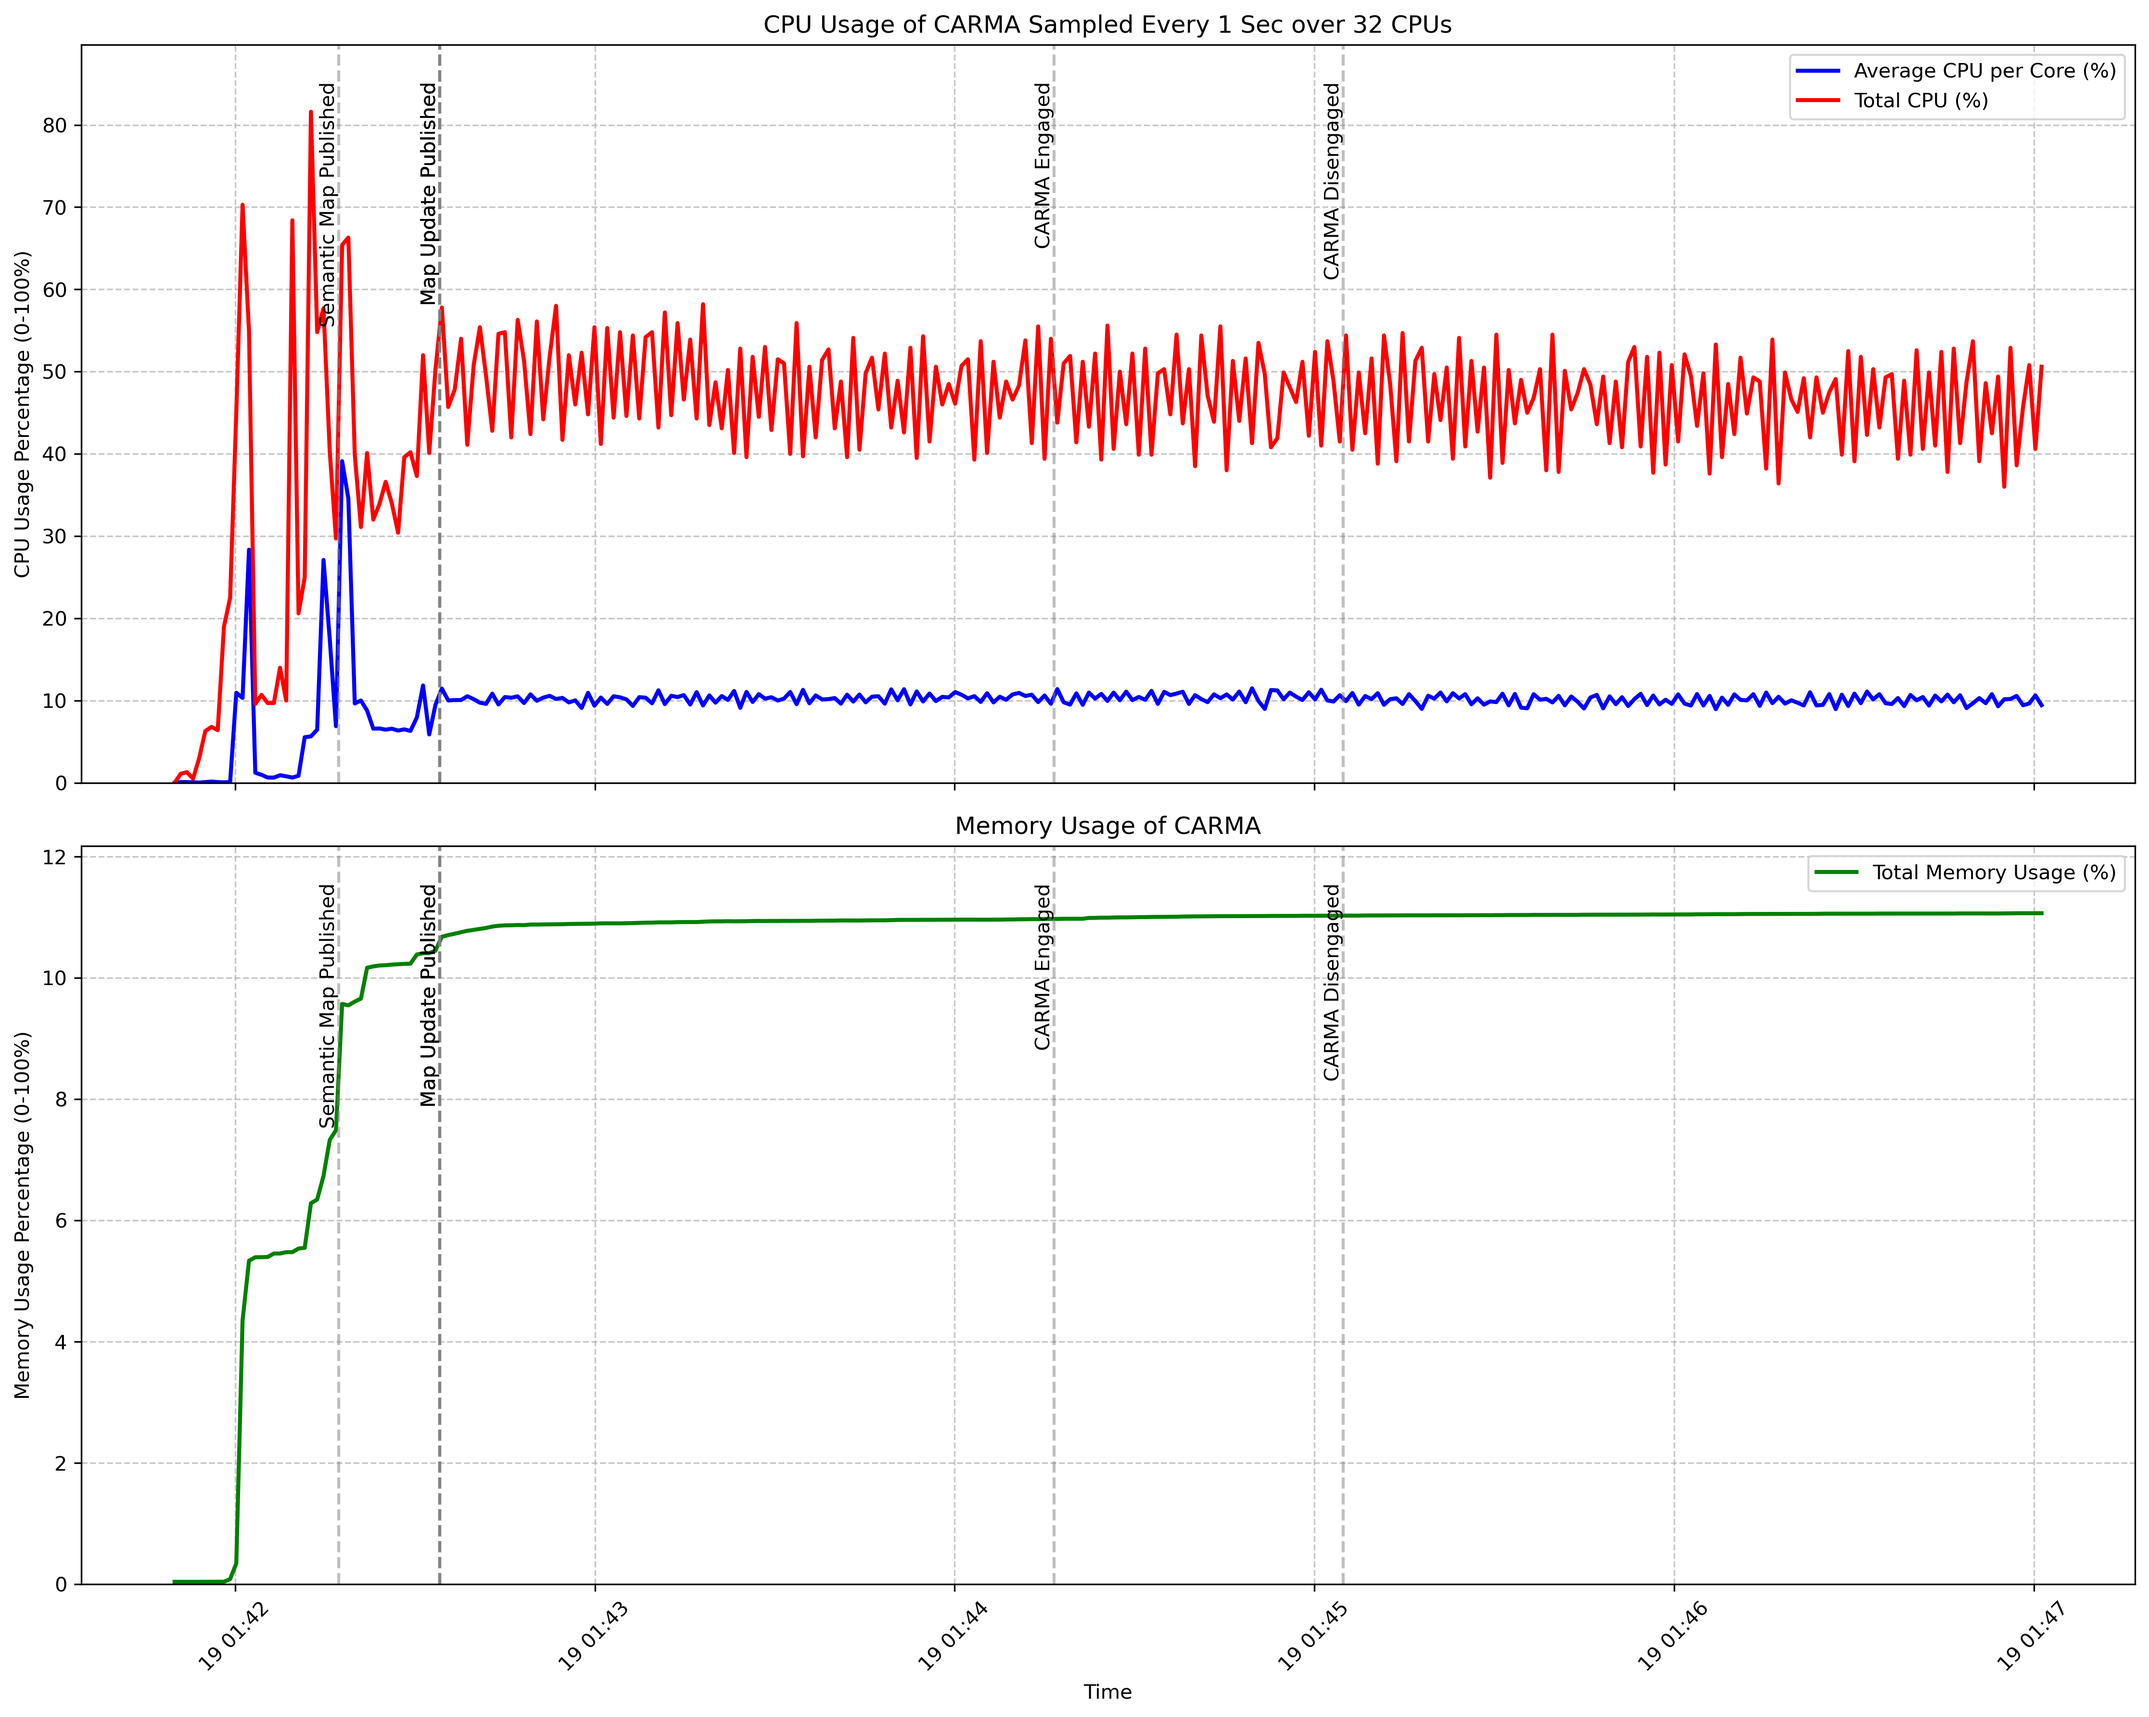
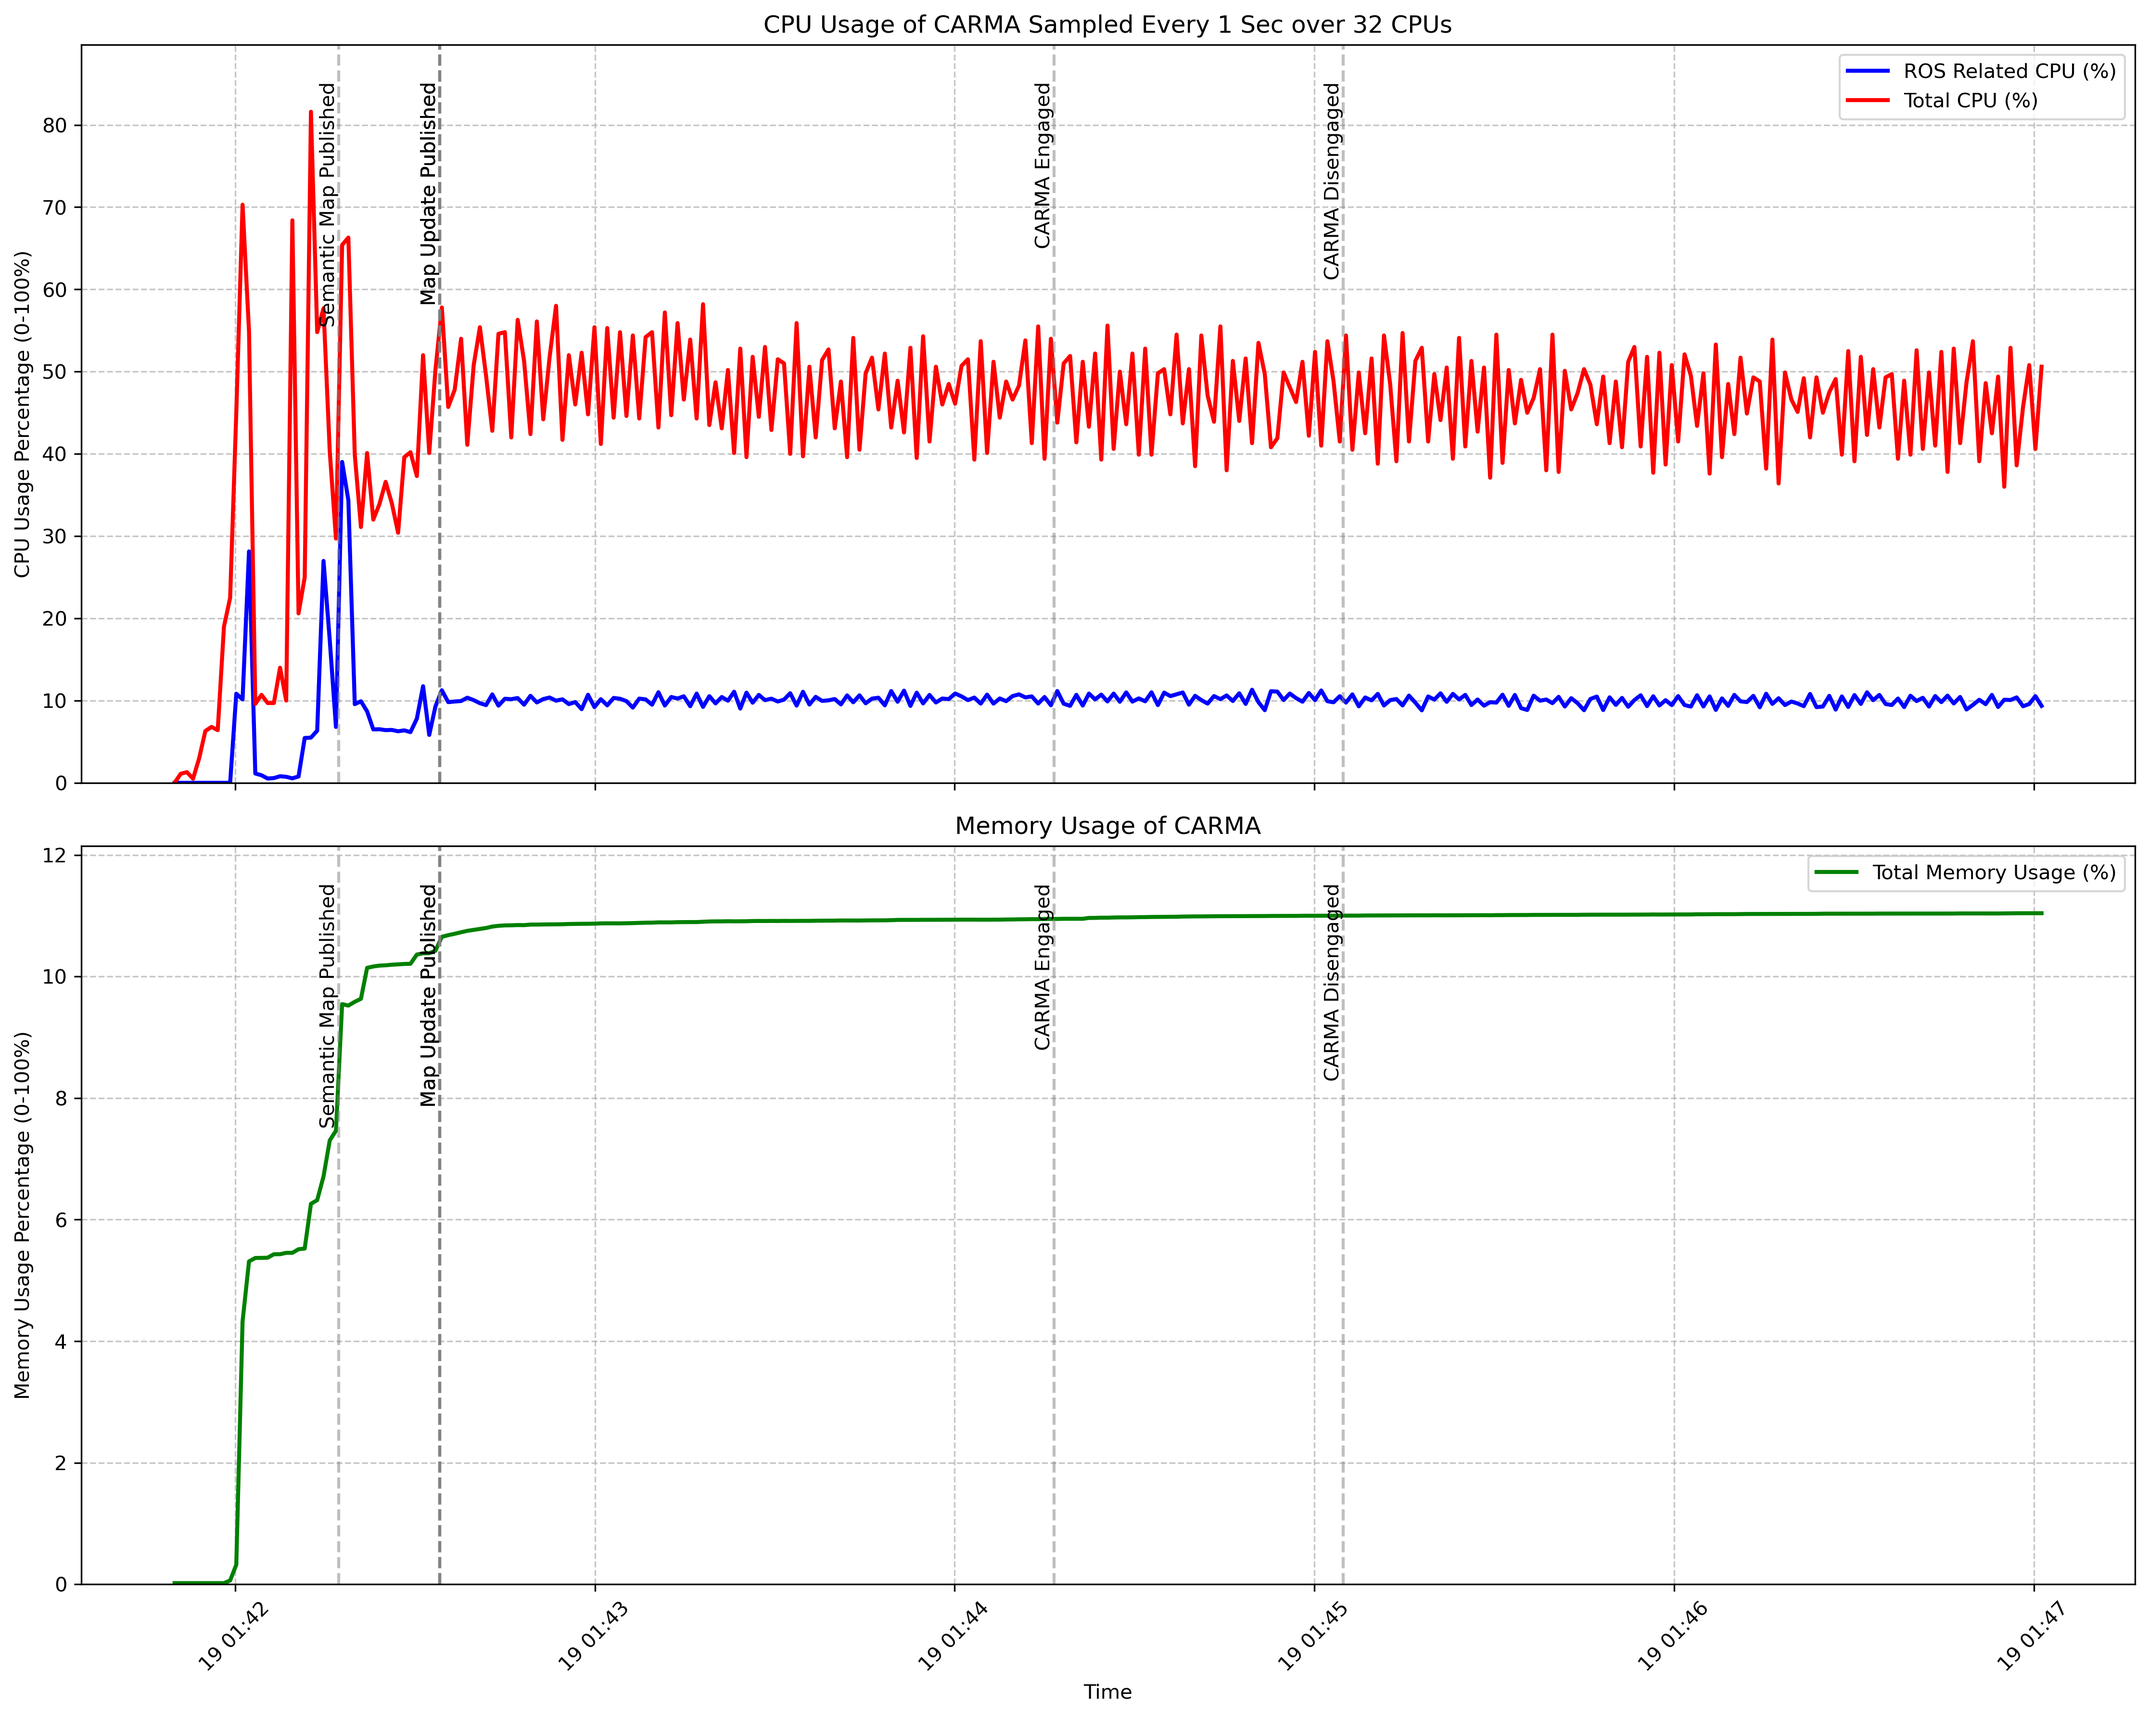
rename

Changed region(s): [[0.8402, 0.0311, 0.9646, 0.0622]]

diff --git a/src/carma-platform/carma_system_resource_usage_plot.py b/src/carma-platform/carma_system_resource_usage_plot.py
@@ -246,7 +246,7 @@ def main():
         type=str,
         help="Path to the corresponding ROS2 MCAP file (optional)",
     )
-    parser.add_argument(mv 
+    parser.add_argument(
         "-c",
         "--cpu-num",
         type=int,

diff --git a/src/carma-platform/docs/carma_system_resource_usage_plot.md b/src/carma-platform/docs/carma_system_resource_usage_plot.md
@@ -5,7 +5,7 @@ This script generates system resource usage plots from CSV data collected during
 
 ## Features
 - Visualizes CPU and memory usage trends over time
-- Shows both average CPU per core and total CPU usage
+- Shows both ROS related and total CPU usage
 - Displays total memory consumption percentage
 - Marks notable events from MCAP files (optional)
 - Robust timezone difference handling between CSV and MCAP data (since host machine and container time may vary)
@@ -58,7 +58,7 @@ The script extracts the following events from MCAP files:
 The generated plot includes two subplots:
 
 CPU Usage (Top):
-- Blue line: Average CPU usage per core
+- Blue line: ROS related CPU usage
 - Red line: Total CPU usage
 - Grid lines for easier reading
 
